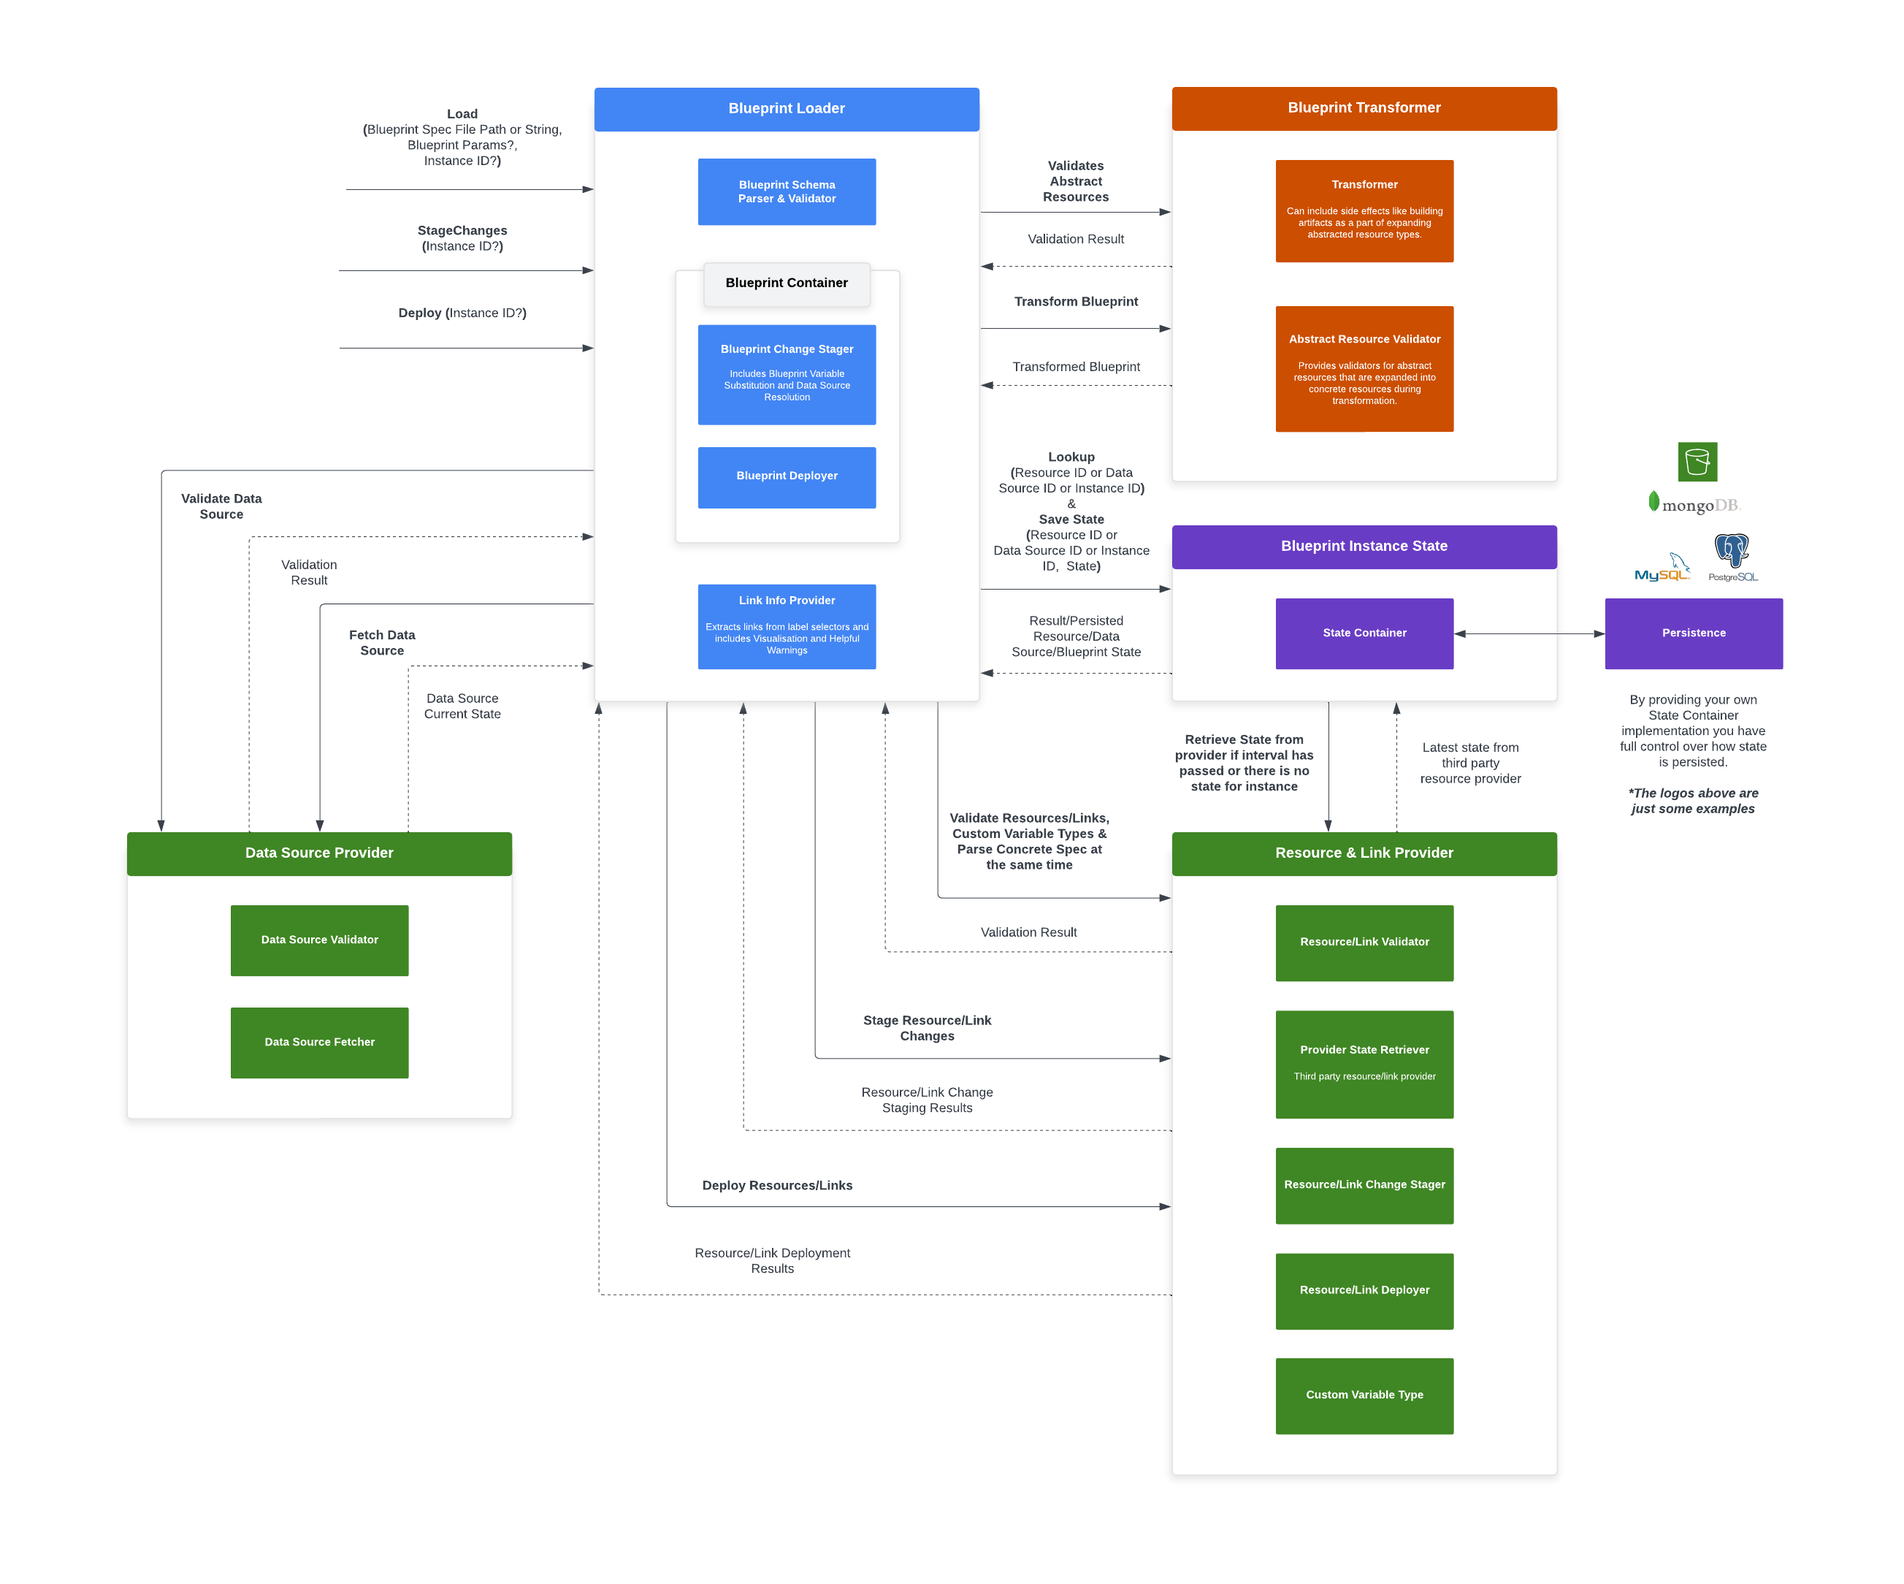
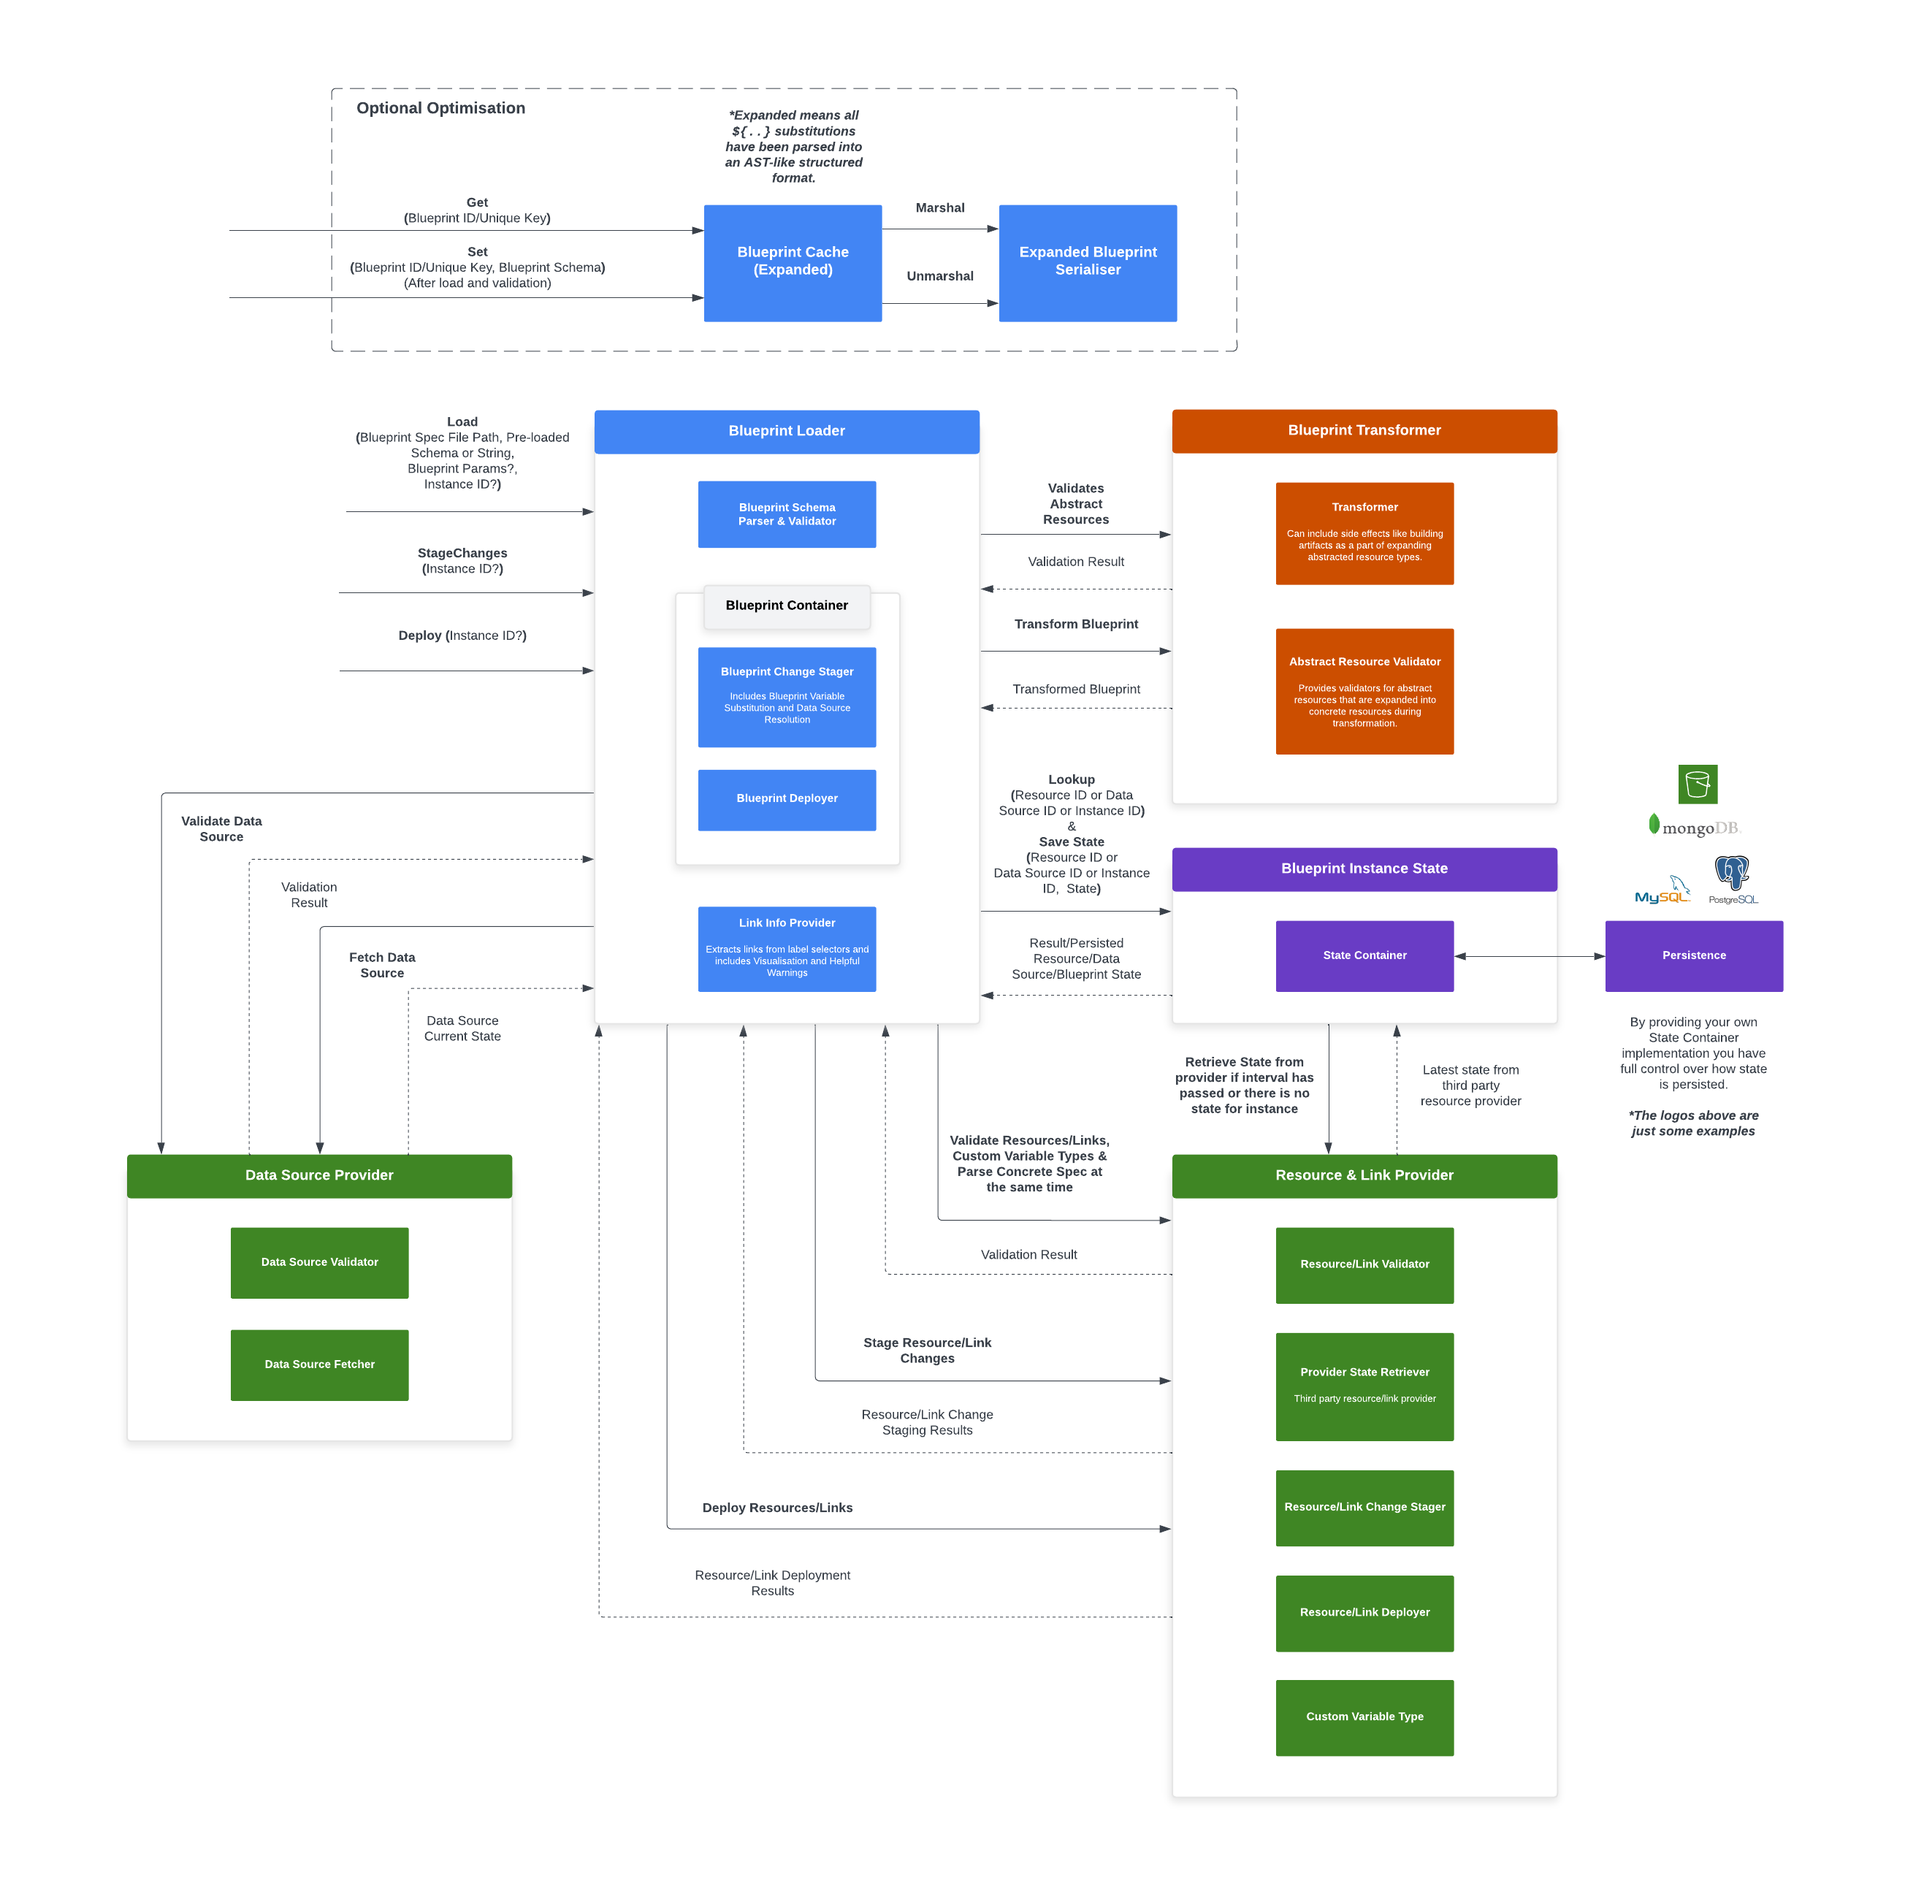
docs(blueprint): update architecture docs and diagram

diff --git a/libs/blueprint/docs/ARCHITECTURE.md b/libs/blueprint/docs/ARCHITECTURE.md
@@ -13,13 +13,68 @@ The mechanism is focused on parsing and validating blueprints along with managin
 of blueprint instances with interfaces for you to implement your own resource providers
 and state containers.
 
-This does not facilitate for persistence of blueprints themselves or any type of versioning/diff checking
-on blueprint specifications. If your application needs this, you'll need to implement that layer within your application.
+This does not facilitate the persistence of blueprints themselves or any type of versioning/diff checking
+on blueprint specifications. If your application needs this, you'll need to implement that layer within your application or use a separate helper library.
+
+The blueprint library does support caching blueprint specifications in their expanded form to make loading blueprints
+that have been previously loaded without modifications more efficient.
+This is significant as it allows skipping the need to parse each occurrence of a `${..}` substitution in the blueprint spec.
+
+The state container provides an interface that allows cleaning up old revisions of blueprint instances,
+management of retention policies is not in the scope of this library
+and should be implemented by applications or other helper libraries that extend the blueprint framework.
+
+Authentication and authorisation is out of scope for this library and should be implemented by applications or helper libraries that extend the blueprint framework.
 
 ## Loader (container.Loader)
 
-The loader deals with loading a spec from a file or a string, unmarshalling the JSON or YAML
+```go
+type Loader interface {
+
+	Load(
+        ctx context.Context,
+        blueprintSpecFile string,
+        params bpcore.BlueprintParams,
+    ) (BlueprintContainer, error)
+
+	Validate(
+        ctx context.Context,
+        blueprintSpecFile string,
+        params bpcore.BlueprintParams,
+    ) (links.SpecLinkInfo, error)
+
+	LoadString(
+        ctx context.Context,
+        blueprintSpec string,
+        inputFormat schema.SpecFormat,
+        params bpcore.BlueprintParams,
+    ) (BlueprintContainer, error)
+
+	ValidateString(
+        ctx context.Context,
+        blueprintSpec string,
+        inputFormat schema.SpecFormat,
+        params bpcore.BlueprintParams,
+    ) (links.SpecLinkInfo, error)
+
+    LoadFromSchema(
+        ctx context.Context,
+        blueprintSchema *schema.Blueprint,
+        params bpcore.BlueprintParams,
+    ) (BlueprintContainer, error)
+
+    ValidateFromSchema(
+        ctx context.Context,
+        blueprintSchema *schema.Blueprint,
+        params bpcore.BlueprintParams,
+    ) (links.SpecLinkInfo, error)
+}
+```
+
+The loader deals with loading a spec from a file, a pre-loaded schema or a string, unmarshalling the JSON or YAML
 and validating each resource in the spec with the configured resource providers.
+
+Pre-loaded schemas are useful for caching expanded blueprint schemas to make loading blueprints that have been previously loaded without modifications more efficient. You can make use of the [BlueprintCache](#blueprintcache-cacheblueprintcache) to store and retrieve expanded blueprint schemas either side of loading a blueprint.
 
 This contains methods for loading a blueprint container that can be used to deploy
 and stage changes for instances or simply validating a spec without loading a blueprint container for it.
@@ -30,6 +85,30 @@ An example of a namespace would be `aws/`.
 The library comes with a default container loader that should meet all your needs.
 
 ## Blueprint Container (container.BlueprintContainer)
+
+```go
+type BlueprintContainer interface {
+
+	StageChanges(
+        ctx context.Context,
+        instanceID string,
+        paramOverrides core.BlueprintParams,
+    ) (BlueprintChanges, error)
+
+	Deploy(ctx context.Context, instanceID string) (string, error)
+
+	Destroy(ctx context.Context, instanceID string, revisionID string) error
+
+	Rollback(
+        ctx context.Context,
+        instanceID string,
+        revisionIDToRollback string,
+        prevRevisionID string,
+    ) error
+
+	SpecLinkInfo() links.SpecLinkInfo
+}
+```
 
 The blueprint container deals with deploying or staging changes for an instance of a blueprint spec.
 It is a container for a single blueprint spec that talks to the resource provider to stage and deploy changes.
@@ -45,6 +124,15 @@ The library comes with a default blueprint container that should meet all your n
 
 ## Spec Link Info Provider (links.SpecLinkInfo)
 
+```go
+type SpecLinkInfo interface {
+
+	Links(ctx context.Context) ([]*ChainLink, error)
+
+	Warnings(ctx context.Context) ([]string, error)
+}
+```
+
 The link info provider deals with extracting links from a spec to build out a chain link whilst catching some potential issues
 with links in a given spec.
 
@@ -52,7 +140,16 @@ The link extractor needs to be instantiated with a map of resource names -> reso
 
 The library comes with a default link info provider that should meet all your needs.
 
-## Blueprint Spec (container.BlueprintSpec)
+## Blueprint Spec (speccore.BlueprintSpec)
+
+```go
+type BlueprintSpec interface {
+
+	ResourceSchema(resourceName string) *schema.Resource
+
+	Schema() *schema.Blueprint
+}
+```
 
 The blueprint spec deals with providing the schema of a blueprint, its resources and a `*core.MappingNode` representation of the resource specification. The resource specification is everything under the the `spec` mapping in the
 YAML or JSON input blueprint. The spec must be a `*core.MappingNode` to allow for the usage of substitutions (with `${..}` syntax); a concrete, user-defined struct would not allow for this.
@@ -61,23 +158,135 @@ The library comes with a default blueprint spec that should meet all your needs.
 
 ## State Container (state.Container)
 
+```go
+type BlueprintContainer interface {
+
+	StageChanges(
+        ctx context.Context,
+        instanceID string,
+        paramOverrides core.BlueprintParams,
+    ) (BlueprintChanges, error)
+
+	Deploy(ctx context.Context, instanceID string) (string, error)
+
+	Destroy(
+        ctx context.Context,
+        instanceID string,
+        revisionID string,
+    ) error
+
+	Rollback(
+        ctx context.Context,
+        instanceID string,
+        revisionIDToRollback string,
+        prevRevisionID string,
+    ) error
+
+	SpecLinkInfo() links.SpecLinkInfo
+}
+```
+
 A state container deals with persisting and loading state for blueprint instances, this could be to files on disk, to a NoSQL or relational database or a remote object/file storage service.
 
-The library does NOT come with any state container implementations, you must implement them yourself.
+The library does NOT come with any state container implementations, you must implement them yourself or use a library that extends the blueprint framework.
 
-## Resource Provider
+## Provider (provider.Provider)
 
-A resource provider deals with validating, syncing state with the external software or system the provider represents, staging changes for approval
+```go
+type Provider interface {
+
+	Resource(resourceType string) Resource
+
+	DataSource(dataSourceType string) DataSource
+
+	Link(resourceTypeA string, resourceTypeB string) Link
+
+	CustomVariableType(customVariableType string) CustomVariableType
+}
+```
+
+A provider deals with validating, syncing state with the external software or system the provider represents, staging changes for approval
 and deploying resources.
 
-A resource provider is also responsible for implementing data sources that allows for dependencies between blueprints and sourcing data from external systems that have were deployed or created outside of the blueprint lifecycle.
+A provider is also responsible for implementing data sources that allows for dependencies between blueprints and sourcing data from external systems that have were deployed or created outside of the blueprint lifecycle.
 
 _In the architecture diagram above, you will see the data source provider is a separate entity from the resource/link provider. This is purely like this to provide a clearer visualisation of the architecture and in code, data sources are a part of resource providers._
 
-A resource provider can also provide custom variable types which are enum variable types with a fixed set of possible values; these are useful for a type of value with a large set of fixed possible values.
+A provider can also provide custom variable types which are enum variable types with a fixed set of possible values; these are useful for a type of value with a large set of fixed possible values.
 
-Finally, a resource provider is also responsible for implementing link implementations for links between resources.
+Finally, a provider is also responsible for implementing link implementations for links between resources.
 
-In the case where there are links between resources that span multiple providers (e.g. AWS and Google Cloud), a resource provider needs to be implemented that represents the relationship between providers. In most cases this would be an abstraction that fulfils the provider interface that internally holds multiple providers. This will have it's own set of link implementations for resource types across providers.
+In the case where there are links between resources that span multiple providers (e.g. AWS and Google Cloud), a provider needs to be implemented that represents the relationship between providers. In most cases this would be an abstraction that fulfils the provider interface that internally holds multiple providers. This will have it's own set of link implementations for resource types across providers.
 
-The library does NOT come with any resource provider implementations, you must implement them yourself.
+The library does NOT come with any provider implementations, you must implement them yourself or use a library that extends the blueprint framework.
+
+## SpecTransformer (transform.SpecTransformer)
+
+```go
+type SpecTransformer interface {
+	Transform(
+        ctx context.Context,
+        inputBlueprint *schema.Blueprint,
+    ) (*schema.Blueprint, error)
+}
+```
+
+A spec transformer transforms a blueprint spec into an expanded form.
+The primary purpose of a transformer is to allow users to define more concise specifications where a lot of detail can be abstracted away
+during the blueprint development process and then expanded into a more detailed form for deployment.
+
+## BlueprintCache (cache.BlueprintCache)
+
+```go
+type BlueprintCache interface {
+
+    Get(
+        ctx context.Context,
+        key string,
+    ) (*schema.Blueprint, error)
+
+    Set(
+        ctx context.Context,
+        key string,
+        blueprint *schema.Blueprint,
+    ) error
+
+    SetExpires(
+        ctx context.Context,
+        key string,
+        blueprint *schema.Blueprint,
+        expires time.Duration,
+    ) error
+
+    Delete(
+        ctx context.Context,
+        key string,
+    ) error
+}
+```
+
+The blueprint cache allows for the caching of expanded blueprint schemas to make loading blueprints that have been previously loaded without modifications more efficient.
+For implementations that require a serialised form of the blueprint spec to store in a scalable cache, the `schema.Blueprint` struct can be serialised as a [Protocol Buffer](http://protobuf.dev/) using the built-in [ExpandedBlueprintSerialiser](#expandedblueprintserialiser-coreexpandedblueprintserialiser) and stored in the cache. _JSON and YAML serialisation can be used but will not store the blueprint in its expanded form so the primary benefits of caching will be lost. This is because the JSON and YAML serialisation will collapse `${..}` substitutions into strings and deserialisation will expand `${..}` substitutions._
+
+The library does NOT come with any provider implementations, you must implement them yourself or use a library that extends the blueprint framework.
+
+## ExpandedBlueprintSerialiser (core.ExpandedBlueprintSerialiser)
+
+```go
+type ExpandedBlueprintSerialiser interface {
+
+    Marshal(
+        ctx context.Context,
+        blueprint *schema.Blueprint,
+    ) ([]byte, error)
+
+    Unmarshal(
+        ctx context.Context,
+        data []byte,
+    ) (*schema.Blueprint, error)
+}
+```
+
+The expanded blueprint serialiser allows for the serialisation and deserialisation of expanded blueprint schemas, this is useful for storing expanded blueprint schemas in a cache or other storage mechanism.
+
+This library comes with a single built-in expanded blueprint serialiser that uses [Protocol Buffers](http://protobuf.dev/) for serialisation and deserialisation. You can implement your own serialiser if you wish to use a different serialisation format.
